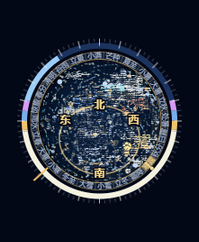
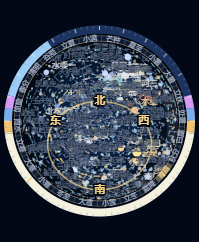
Refine Watch constellation labels and Clockology dial

diff --git a/widgy/watch/watch.js b/widgy/watch/watch.js
@@ -42,7 +42,7 @@ const COLORS = {
   gold: "#dcb870",
   goldBright: "#f5d68c",
   line: "rgba(122, 199, 214, .82)",
-  boundary: "rgba(7, 25, 52, .68)",
+  boundary: "rgba(143, 168, 203, .62)",
 };
 
 function resize() {
@@ -53,7 +53,7 @@ function resize() {
   canvas.height = Math.round(rect.height * dpr);
   ctx.setTransform(dpr, 0, 0, dpr, 0, 0);
   const edge = Math.min(rect.width, rect.height);
-  metrics = { width: rect.width, height: rect.height, cx: rect.width / 2, cy: rect.height / 2, radius: Math.max(1, edge / 2 - 32) };
+  metrics = { width: rect.width, height: rect.height, cx: rect.width / 2, cy: rect.height / 2, radius: Math.max(1, edge / 2 - 21) };
   return true;
 }
 
@@ -294,13 +294,19 @@ function drawBodies() {
 function drawConstellationLabels() {
   ctx.save();
   ctx.fillStyle = COLORS.boundary;
-  ctx.font = "10px Segoe UI,sans-serif";
+  ctx.font = "8px Segoe UI,sans-serif";
   ctx.textAlign = "center";
   ctx.textBaseline = "middle";
+  ctx.lineJoin = "round";
+  ctx.lineWidth = .8;
+  ctx.strokeStyle = "rgba(3,8,23,.66)";
   for (const constellation of CONSTELLATIONS) {
     for (const [ra, dec] of constellation.labels) {
       const point = projectEquatorial(ra, dec);
-      if (point) ctx.fillText(constellation.name, point.x, point.y);
+      if (point) {
+        ctx.strokeText(constellation.name, point.x, point.y);
+        ctx.fillText(constellation.name, point.x, point.y);
+      }
     }
   }
   ctx.restore();
@@ -360,8 +366,8 @@ function drawCompassDirections() {
 
 function drawTimeRing() {
   const { cx, cy, radius } = metrics;
-  const time = radius + 16;
-  const timeOuter = radius + 24;
+  const time = radius + 13;
+  const timeOuter = time + 4;
   const colors = {
     day: "#f4f1df",
     standard: "#f6e2b4",
@@ -382,7 +388,7 @@ function drawTimeRing() {
 
   ctx.save();
   ctx.lineCap = "butt";
-  ctx.lineWidth = 10;
+  ctx.lineWidth = 8;
   ctx.strokeStyle = colors.night;
   ctx.beginPath();
   ctx.arc(cx, cy, time, 0, TAU);
@@ -413,13 +419,15 @@ function drawTimeRing() {
   for (let index = 0; index < 96; index += 1) {
     const fraction = index / 96;
     const angle = -Math.PI / 2 + fraction * TAU;
-    const length = index % 4 === 0 ? 8 : index % 2 === 0 ? 5 : 3;
-    const inner = timeOuter - length;
+    const length = index % 4 === 0 ? 4 : index % 2 === 0 ? 3 : 2;
+    const tickWidth = index % 4 === 0 ? 1 : .7;
+    const outerTickRadius = timeOuter - tickWidth / 2;
+    const inner = outerTickRadius - length;
     ctx.strokeStyle = index % 4 === 0 ? "rgba(240,238,229,.78)" : "rgba(137,147,171,.6)";
-    ctx.lineWidth = index % 4 === 0 ? 1 : .7;
+    ctx.lineWidth = tickWidth;
     ctx.beginPath();
     ctx.moveTo(cx + Math.cos(angle) * inner, cy + Math.sin(angle) * inner);
-    ctx.lineTo(cx + Math.cos(angle) * timeOuter, cy + Math.sin(angle) * timeOuter);
+    ctx.lineTo(cx + Math.cos(angle) * outerTickRadius, cy + Math.sin(angle) * outerTickRadius);
     ctx.stroke();
   }
 
@@ -435,10 +443,10 @@ function drawTimeRing() {
 
   const markerAngle = -Math.PI / 2 + state.timeRing.timeFraction * TAU;
   ctx.strokeStyle = "#f2c36c";
-  ctx.lineWidth = 2;
+  ctx.lineWidth = 1.2;
   ctx.beginPath();
-  ctx.moveTo(cx + Math.cos(markerAngle) * (time - 6), cy + Math.sin(markerAngle) * (time - 6));
-  ctx.lineTo(cx + Math.cos(markerAngle) * (timeOuter + 7), cy + Math.sin(markerAngle) * (timeOuter + 7));
+  ctx.moveTo(cx + Math.cos(markerAngle) * (time - 3.2), cy + Math.sin(markerAngle) * (time - 3.2));
+  ctx.lineTo(cx + Math.cos(markerAngle) * (time + 3.2), cy + Math.sin(markerAngle) * (time + 3.2));
   ctx.stroke();
   ctx.restore();
 }
@@ -446,7 +454,7 @@ function drawTimeRing() {
 function drawSolarTermRing() {
   const { cx, cy, radius } = metrics;
   const lst = localSiderealHours(state.date, city.lon);
-  const termBandWidth = 8;
+  const termBandWidth = 6;
   const termMidRadius = radius + termBandWidth / 2 + 1;
   const termOuterRadius = radius + termBandWidth + 1;
   const currentTerm = Math.floor(solarLongitude(state.date) / 15) % SOLAR_TERMS.length;
@@ -462,13 +470,14 @@ function drawSolarTermRing() {
   ctx.stroke();
 
   ctx.strokeStyle = "rgba(218,182,112,.72)";
-  ctx.lineWidth = 1;
+  ctx.lineWidth = .6;
   ctx.beginPath();
-  ctx.arc(cx, cy, radius + 1, 0, TAU);
+  ctx.arc(cx, cy, radius + 1.35, 0, TAU);
   ctx.stroke();
+  ctx.lineWidth = .6;
   ctx.strokeStyle = "rgba(218,182,112,.5)";
   ctx.beginPath();
-  ctx.arc(cx, cy, termOuterRadius, 0, TAU);
+  ctx.arc(cx, cy, termOuterRadius - .35, 0, TAU);
   ctx.stroke();
 
   for (let index = 0; index < SOLAR_TERMS.length; index += 1) {
@@ -491,10 +500,10 @@ function drawSolarTermRing() {
     }
 
     ctx.strokeStyle = "rgba(218,182,112,.48)";
-    ctx.lineWidth = .75;
+    ctx.lineWidth = .55;
     ctx.beginPath();
-    ctx.moveTo(cx + Math.cos(angle) * (radius + 1), cy + Math.sin(angle) * (radius + 1));
-    ctx.lineTo(cx + Math.cos(angle) * termOuterRadius, cy + Math.sin(angle) * termOuterRadius);
+    ctx.moveTo(cx + Math.cos(angle) * (radius + 1.3), cy + Math.sin(angle) * (radius + 1.3));
+    ctx.lineTo(cx + Math.cos(angle) * (termOuterRadius - .3), cy + Math.sin(angle) * (termOuterRadius - .3));
     ctx.stroke();
 
     const labelX = cx + Math.cos(middleAngle) * termMidRadius;
@@ -514,18 +523,18 @@ function drawSolarTermRing() {
 
   const sun = solarEquatorial(state.date);
   const sunAngle = angleForRightAscension(sun.ra);
-  const needleTipRadius = termOuterRadius + 2;
+  const needleTipRadius = termMidRadius + 1.8;
   const tipX = cx + Math.cos(sunAngle) * needleTipRadius;
   const tipY = cy + Math.sin(sunAngle) * needleTipRadius;
   ctx.strokeStyle = COLORS.goldBright;
-  ctx.lineWidth = 1.8;
+  ctx.lineWidth = 1.2;
   ctx.beginPath();
-  ctx.moveTo(cx + Math.cos(sunAngle) * (radius + 1), cy + Math.sin(sunAngle) * (radius + 1));
+  ctx.moveTo(cx + Math.cos(sunAngle) * (radius + 1.6), cy + Math.sin(sunAngle) * (radius + 1.6));
   ctx.lineTo(tipX, tipY);
   ctx.stroke();
   ctx.fillStyle = COLORS.goldBright;
   ctx.beginPath();
-  ctx.arc(tipX, tipY, 2, 0, TAU);
+  ctx.arc(tipX, tipY, 1.1, 0, TAU);
   ctx.fill();
   ctx.restore();
 }

diff --git a/widgy/watch/clockology/README.md b/widgy/watch/clockology/README.md
@@ -1,7 +1,7 @@
 # CosmosWhisper · Apple Watch / Clockology
 
-- `CosmosWhisper-Apple-Watch.ocs` 是自包含的 Clockology / OpenClockStandard 表盘文件，底图与指针 PNG 均已嵌入。将文件保存到 iPhone 后，可从文件分享菜单交给 Clockology 导入。
-- Apple Watch 规格画布为 199 × 242。星图、文字、刻度和指针均按相同比例缩小并保持居中；外圈带宽已收窄。
-- 仅保留基本方位；移除了 0h、6h、12h、18h、月照、无月及东北、西北、西南、东南文字。北极中心不叠加同心轴圈。
-- 星图与天象外圈是网页 watch 版生成的静态底图；时、分、秒针为 Clockology 动态图层，秒针使用平滑扫动。
+- `CosmosWhisper-Apple-Watch.ocs` 是自包含的 Clockology / OpenClockStandard 表盘文件，底图与时分秒针 PNG 均已嵌入。将文件保存到 iPhone 后，可从文件分享菜单交给 Clockology 导入。
+- 使用 Apple Watch 画布 199 × 242；圆盘贴近左右边缘，双外环收紧。刻度与日夜指示针都限制在各自环带内，为中心星盘留下更多面积。
+- Clockology 底图文字整体缩小；星座名与分割线使用比深蓝背景更浅的蓝灰色，名称字号进一步缩小。移除了 0h、6h、12h、18h、月照、无月及东北、西北、西南、东南文字。
+- 中央时针、分针、秒针是独立动态图层；秒针设置为平滑扫动。北极中心仅有单点轴心，无新增同心圈。星图和天象外圈本身为静态快照。
 - `CosmosWhisper-Apple-Watch-preview.png` 是 10:10:30 的示意预览，不代表导入后的当前时间。
